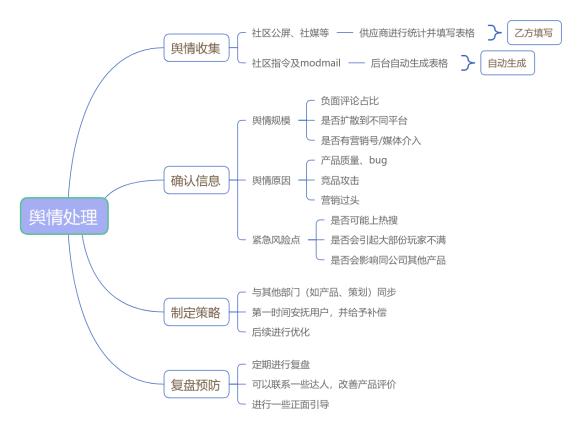
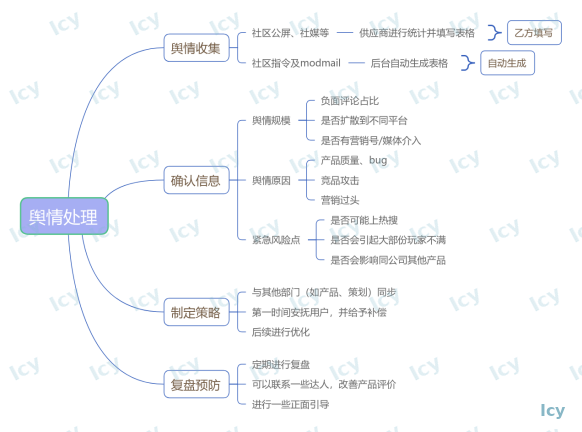
Watermark AI diagrams and rewrite the hobby unlock line
Bake a repeating Icy mark onto the two workflow images, and
tell visitors they can click categories to unlock Icy fragments.

diff --git a/js/main.js b/js/main.js
@@ -33,14 +33,14 @@ const GALLERIES = {
     kicker: "AI 工作流 · 智能化机器人",
     title: "使用 AI 进行舆情收集与对策",
     slides: [
-      { src: "assets/ai/yuqing-map.png", caption: "舆情处理", alt: "舆情处理流程图：收集、确认信息、制定策略、复盘预防" }
+      { src: "assets/ai/yuqing-map.png?v=2", caption: "舆情处理", alt: "舆情处理流程图：收集、确认信息、制定策略、复盘预防" }
     ]
   },
   review: {
     kicker: "AI 工作流 · 数据分析",
     title: "活动数据复盘优化",
     slides: [
-      { src: "assets/ai/review-improve.png", caption: "活动数据优化", alt: "社区数据优化思维导图：本社区数据、解决方案、预期目标与其他产品参考" }
+      { src: "assets/ai/review-improve.png?v=2", caption: "活动数据优化", alt: "社区数据优化思维导图：本社区数据、解决方案、预期目标与其他产品参考" }
     ]
   }
 };

diff --git a/index.html b/index.html
@@ -359,7 +359,7 @@
           <div class="section-head">
             <span class="page-num">04 / HOBBY</span>
             <h2>兴趣 <em>爱好</em></h2>
-            <p>音乐、摄影、旅游收在同一页，点分类切换相册。</p>
+            <p>点击分类，解锁不同的 Icy 碎片。</p>
           </div>
 
           <nav class="hobby-nav" role="tablist" aria-label="爱好分类">
@@ -603,6 +603,6 @@
       <div class="work-viewer-dots" id="work-viewer-dots"></div>
     </div>
   </div>
-  <script src="js/main.js?v=12"></script>
+  <script src="js/main.js?v=13"></script>
 </body>
 </html>

diff --git a/scripts/watermark_ai.py b/scripts/watermark_ai.py
@@ -1,0 +1,87 @@
+#!/usr/bin/env python3
+"""Bake a repeating Icy watermark onto the two AI workflow diagrams."""
+
+from pathlib import Path
+
+from PIL import Image, ImageDraw, ImageFont
+
+ROOT = Path(__file__).resolve().parents[1]
+FONT = "/usr/share/fonts/truetype/dejavu/DejaVuSans-Bold.ttf"
+MARK = "Icy"
+SOURCE = ROOT / "assets/ai/source"
+OUTPUT = ROOT / "assets/ai"
+
+FILES = [
+    "yuqing-map.png",
+    "review-improve.png",
+]
+
+
+def load_font(size: int) -> ImageFont.FreeTypeFont:
+    return ImageFont.truetype(FONT, size)
+
+
+def make_tile(text: str, font: ImageFont.FreeTypeFont, fill: tuple[int, int, int, int]) -> Image.Image:
+    dummy = Image.new("RGBA", (8, 8), (0, 0, 0, 0))
+    box = ImageDraw.Draw(dummy).textbbox((0, 0), text, font=font)
+    tw, th = box[2] - box[0], box[3] - box[1]
+    pad_x, pad_y = max(24, tw), max(18, th)
+    tile = Image.new("RGBA", (tw + pad_x * 2, th + pad_y * 2), (0, 0, 0, 0))
+    ImageDraw.Draw(tile).text((pad_x, pad_y), text, font=font, fill=fill)
+    return tile.rotate(28, expand=True, resample=Image.Resampling.BICUBIC)
+
+
+def add_watermark(path: Path) -> None:
+    base = Image.open(path).convert("RGBA")
+    width, height = base.size
+    shortest = min(width, height)
+
+    overlay = Image.new("RGBA", base.size, (0, 0, 0, 0))
+    tile_font = load_font(max(16, int(shortest * 0.048)))
+    tile = make_tile(MARK, tile_font, (126, 184, 204, 58))
+    step_x = max(1, int(tile.width * 0.72))
+    step_y = max(1, int(tile.height * 0.72))
+
+    row = 0
+    y = -tile.height
+    while y < height + tile.height:
+        x = -tile.width + (step_x // 2 if row % 2 else 0)
+        while x < width + tile.width:
+            overlay.alpha_composite(tile, (x, y))
+            x += step_x
+        y += step_y
+        row += 1
+
+    draw = ImageDraw.Draw(overlay)
+    corner_font = load_font(max(13, int(shortest * 0.038)))
+    label = "Icy"
+    box = draw.textbbox((0, 0), label, font=corner_font)
+    tw, th = box[2] - box[0], box[3] - box[1]
+    pad = max(8, int(shortest * 0.018))
+    x = width - tw - pad * 2
+    y = height - th - pad * 2
+    draw.rounded_rectangle(
+        (x - pad, y - pad // 2, width - pad // 2, height - pad // 2),
+        radius=max(8, pad),
+        fill=(255, 255, 255, 150),
+    )
+    draw.text(
+        (x, y),
+        label,
+        font=corner_font,
+        fill=(110, 168, 186, 210),
+        stroke_width=1,
+        stroke_fill=(255, 255, 255, 180),
+    )
+
+    out = Image.alpha_composite(base, overlay).convert("RGB")
+    out.save(path, format="PNG", optimize=True)
+    print(f"watermarked {path.relative_to(ROOT)} ({width}x{height})")
+
+
+if __name__ == "__main__":
+    for name in FILES:
+        src = SOURCE / name
+        dest = OUTPUT / name
+        dest.write_bytes(src.read_bytes())
+        add_watermark(dest)
